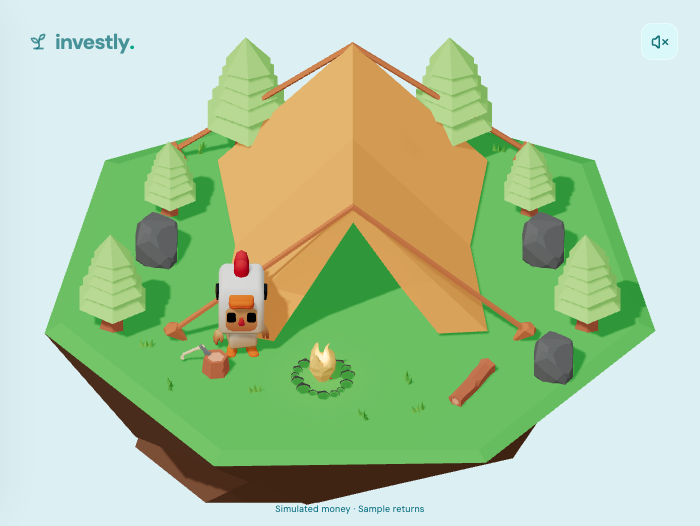
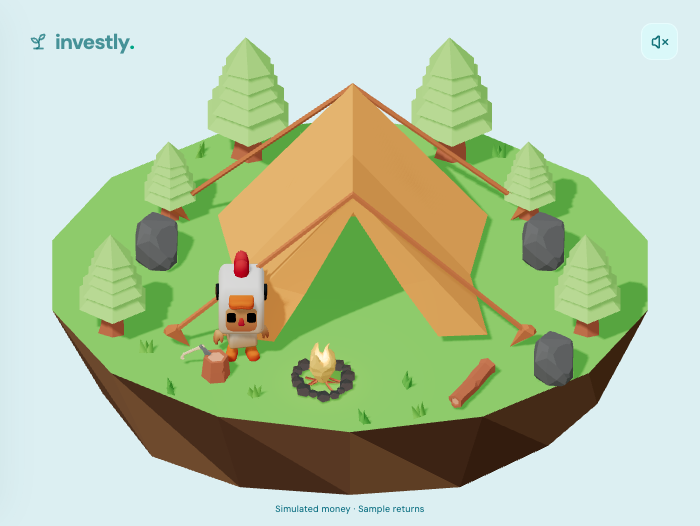
campsite fix final

diff --git a/src/Town.tsx b/src/Town.tsx
@@ -12,7 +12,7 @@ import { CampIsland, CityStreets, isOnCampGround, isOnCityWalkway } from './Town
 type Point = [number, number, number];
 const campGround = 1.53;
 const tentSize = 11;
-const spots: Record<string, Point> = { home: [0, campGround, -1], bank: [-3, campGround, 3.8], technology: [-5.3, campGround, -2.8], energy: [5.3, campGround, -2.8], retail: [7, campGround, 2.5], goal: [-0.8, campGround, 5], player: [-3.2, campGround, 3.6], debt: [-7, campGround, 0] };
+const spots: Record<string, Point> = { home: [0, campGround, 0.4], bank: [-3, campGround, 3.8], technology: [-5.3, campGround, -2.8], energy: [5.3, campGround, -2.8], retail: [7, campGround, 2.5], goal: [-0.8, campGround, 5], player: [-3.2, campGround, 3.6], debt: [-7, campGround, 0] };
 const pathStep = 0.35;
 const pathMinX = -8;
 const pathMinZ = -6.5;
@@ -57,7 +57,7 @@ function gridIndex(point: Point): number {
 function cellIsBlocked(x: number, z: number): boolean {
   const px = pathMinX + x * pathStep;
   const pz = pathMinZ + z * pathStep;
-  return (Math.abs(px - spots.home[0]) < 4.8 && Math.abs(pz - spots.home[2]) < 3.9) || walkObstacles.some(([ox, oz, radius]) => (px - ox) ** 2 + (pz - oz) ** 2 < radius ** 2);
+  return (Math.abs(px - spots.home[0]) < 4.8 && Math.abs(pz - spots.home[2]) < 2.5) || walkObstacles.some(([ox, oz, radius]) => (px - ox) ** 2 + (pz - oz) ** 2 < radius ** 2);
 }
 function cellIsWalkable(x: number, z: number, city = false): boolean {
   const px = pathMinX + x * pathStep;
@@ -150,7 +150,6 @@ function findWalkPath(start: Point, target: Point, city = false): Point[] {
   return smoothWalkPath(route, city);
 }
 
-const islandTints = { Grass: '#48a84a', Dirt: '#704b37' };
 function normalizedClone(scene: Group, size: number, tints?: Record<string, string>) {
   const copy = clone(scene);
   copy.updateMatrixWorld(true);
@@ -398,8 +397,8 @@ function World({ state, reduced, zoom, avatarId, cityUnlocked, onReady }: { stat
         <div style={{ padding: '4px 8px', borderRadius: 6, background: '#ffffffed', border: '1px solid #4a8171', color: '#174d3d', boxShadow: '0 2px 6px #173b3440', fontSize: 12, fontWeight: 700, lineHeight: 1.2, whiteSpace: 'nowrap' }}>Home</div>
       </Html>
     </> : <>
-      <CampIsland><Model name="camp/island" size={18} tints={islandTints} /></CampIsland>
-      <group position={spots.home} scale={[1, 0.8, 1]}><Model name="camp/tent" size={tentSize} /></group>
+      <CampIsland height={campGround} />
+      <group position={spots.home} scale={[1, 0.9, 0.7]}><Model name="camp/tent" size={tentSize} /></group>
       <CampGrass />
       <Shield amount={state.emergencySavings} reduced={reduced} />
       <Campfire progress={goalProgress(state)} reduced={reduced} />

diff --git a/src/TownScenery.tsx b/src/TownScenery.tsx
@@ -1,15 +1,45 @@
 import { RoundedBox } from '@react-three/drei';
-import type { ReactNode } from 'react';
+import { useMemo } from 'react';
+import { BufferGeometry, Float32BufferAttribute, Color } from 'three';
 
 type Walkway = { from: [number, number]; to: [number, number]; width: number };
 
 // The reference campsite is an open clearing; movement stays on the island.
 export function isOnCampGround(x: number, z: number): boolean {
-  return (x / 8.1) ** 2 + (z / 7.4) ** 2 <= 1;
+  return (x / 8.1) ** 2 + (z / 6.6) ** 2 <= 1;
 }
 
-export function CampIsland({ children }: { children?: ReactNode }) {
-  return <group position={[0, -5.5, 0]} scale={[1, 0.4, 1]}>{children}</group>;
+export function CampIsland({ height }: { height: number }) {
+  const geometry = useMemo(() => {
+    const positions: number[] = [];
+    const colors: number[] = [];
+    const sides = 14;
+    const triangle = (a: number[], b: number[], c: number[], tint: string) => {
+      positions.push(...a, ...b, ...c);
+      const color = new Color(tint);
+      for (let i = 0; i < 3; i++) colors.push(color.r, color.g, color.b);
+    };
+    const rim = (i: number, bottom = false) => {
+      const angle = Math.PI / 2 + i * Math.PI * 2 / sides;
+      const radius = bottom ? 0.83 : 1;
+      return [Math.cos(angle) * 9 * radius, bottom ? height - 3.4 - (i % 3) * 0.2 : height, Math.sin(angle) * 7.3 * radius];
+    };
+    const dirt = ['#72503a', '#60412e', '#805b40', '#68472f'];
+    for (let i = 0; i < sides; i++) {
+      const a = rim(i), b = rim((i + 1) % sides);
+      const c = rim(i, true), d = rim((i + 1) % sides, true);
+      triangle([0, height, 0], b, a, '#65b84c');
+      triangle(a, b, c, dirt[i % dirt.length]);
+      triangle(b, d, c, dirt[(i + 1) % dirt.length]);
+      triangle([0, height - 3.7, 0], c, d, '#60412e');
+    }
+    const result = new BufferGeometry();
+    result.setAttribute('position', new Float32BufferAttribute(positions, 3));
+    result.setAttribute('color', new Float32BufferAttribute(colors, 3));
+    result.computeVertexNormals();
+    return result;
+  }, [height]);
+  return <mesh geometry={geometry} receiveShadow castShadow><meshStandardMaterial vertexColors flatShading roughness={1} /></mesh>;
 }
 
 const cityRoads: Walkway[] = [
